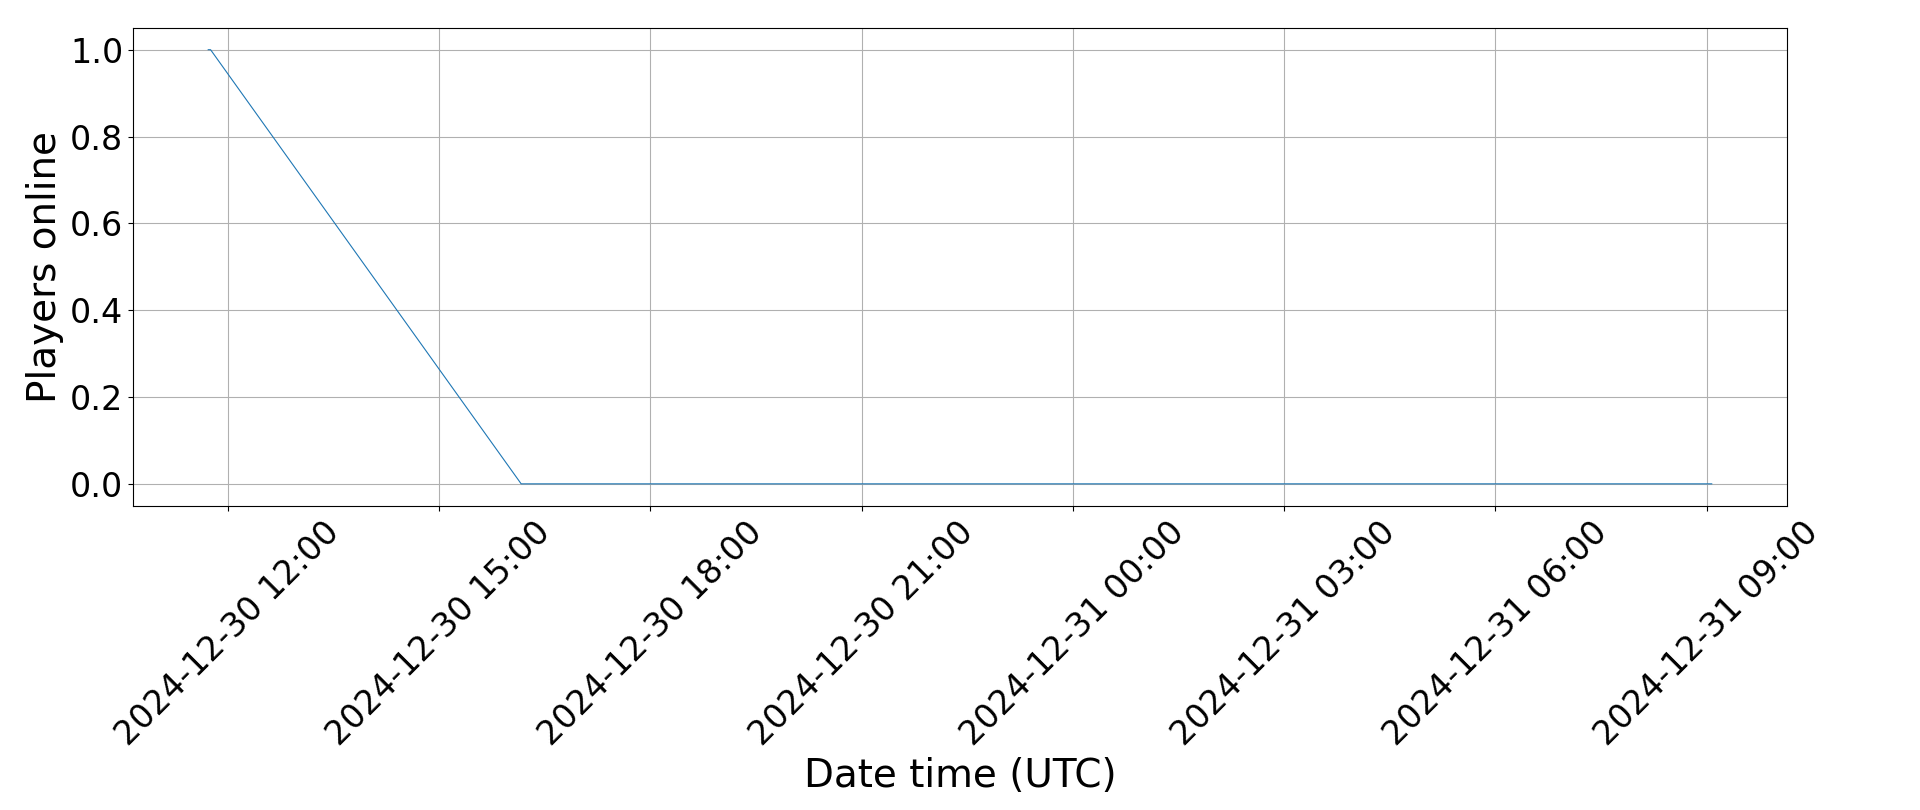
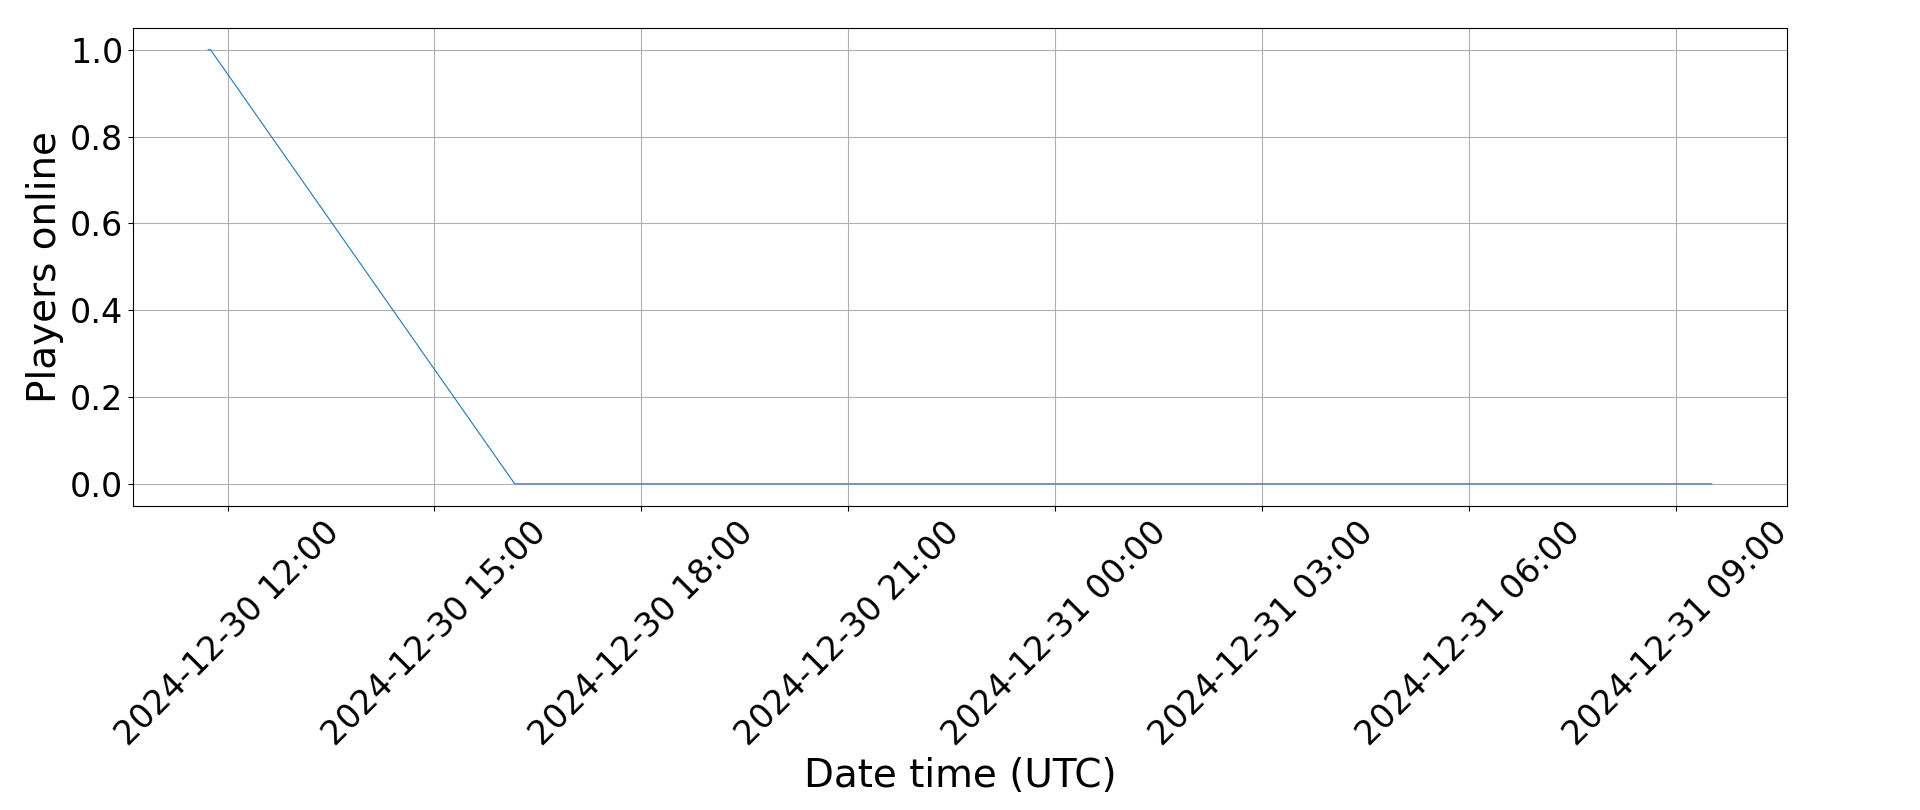
Rosti.cz works

diff --git a/server/job.py b/server/job.py
@@ -1,5 +1,5 @@
 import datetime
-from __main__ import scheduler, scoped_factory
+import context
 import service
 from datetime import timedelta
 
@@ -10,7 +10,7 @@ import constant
 from model import ModulePresence, ModuleInfo
 
 
-@scheduler.task('cron', minute=constant.NWN_CHECKER_URL_INTERVAL_CRON_PER_HOUR)
+@context.scheduler.task('cron', minute=constant.NWN_CHECKER_URL_INTERVAL_CRON_PER_HOUR)
 def update_module_presences():
     module_infos = repository.get_module_infos()
     for module_info in module_infos:
@@ -25,10 +25,10 @@ def update_module_presences():
 
         # Update Module info
 
-        session = scoped_factory()
+        session = context.scoped_factory()
 
         module_info.players = count
-        module_info.updated = datetime.datetime.utcnow()
+        module_info.updated = datetime.datetime.now(datetime.timezone.utc)
 
         repository.upsert_module_infos([module_info])
 
@@ -36,7 +36,7 @@ def update_module_presences():
 
         # Load latest Module presence
 
-        timestamp_min = datetime.datetime.utcnow() - timedelta(seconds=int(constant.NWN_CHECKER_URL_INTERVAL_UPDATE_DB_SECONDS))
+        timestamp_min = datetime.datetime.now(datetime.timezone.utc) - timedelta(seconds=int(constant.NWN_CHECKER_URL_INTERVAL_UPDATE_DB_SECONDS))
         recent_presences = repository.get_module_presences(module_info_id=module_info.id, timestamp_min=timestamp_min)
         if len(recent_presences) > 0:
             recent_presence = recent_presences[0]
@@ -53,7 +53,7 @@ def update_module_presences():
             is_db_update = True
             print(f"Presence for {module_info.name} will be updated because current players {count} is greater that previous {recent_presence.players}")
         else:
-            print(f"Presence for {module_info.name} will be not updated because current is {count} and before {(datetime.datetime.utcnow() - timestamp_min).total_seconds() / 60} minutes there was {recent_presence.players}")
+            print(f"Presence for {module_info.name} will be not updated because current is {count} and before {(datetime.datetime.now(datetime.timezone.utc) - timestamp_min).total_seconds() / 60} minutes there was {recent_presence.players}")
         if not is_db_update:
             session.commit()
             continue
@@ -62,11 +62,11 @@ def update_module_presences():
 
         if recent_presence:
             recent_presence.players = count
-            recent_presence.timestamp = datetime.datetime.utcnow()
+            recent_presence.timestamp = datetime.datetime.now(datetime.timezone.utc)
         else:
             recent_presence = ModulePresence(
                 module_info_id=module_info.id,
-                timestamp=datetime.datetime.utcnow(),
+                timestamp=datetime.datetime.now(datetime.timezone.utc),
                 players=count
             )
 
@@ -84,6 +84,6 @@ def update_module_presences():
             file.write(chart_bytes)
 
 
-@scheduler.task('interval', seconds=10)
+@context.scheduler.task('interval', seconds=10)
 def reload_properties():
     service.reload_properties()

diff --git a/server/app.py b/server/app.py
@@ -2,6 +2,7 @@
 import json
 import logging
 from http.client import HTTPException
+import os
 
 from flask_apscheduler import APScheduler
 from flask import Flask, send_from_directory, request, redirect, url_for
@@ -10,6 +11,7 @@ from sqlalchemy.orm import sessionmaker, scoped_session
 
 # Component imports
 
+import context
 import initdb
 import util
 from constant import STATIC_FILE_SUFFIXES, WEB_DIR, DATA_DIR
@@ -17,16 +19,17 @@ from util import CustomJSONEncoder
 
 # Init Flask
 
-app = Flask(__name__, )
-app.json_encoder = CustomJSONEncoder
-# app.config['JSON_SORT_KEYS'] = False
-# app.config['JSONIFY_PRETTYPRINT_REGULAR'] = False
+os.environ['TZ'] = 'Europe/Prague'
+context.app = Flask(__name__, )
+context.app.json_encoder = CustomJSONEncoder
+# context.app.config['JSON_SORT_KEYS'] = False
+# context.app.config['JSONIFY_PRETTYPRINT_REGULAR'] = False
 
 # Init SqlAclhemy
 
-engine = create_engine(f"sqlite:///{DATA_DIR}/sqlite.db")
-session_factory = sessionmaker(bind=engine)
-scoped_factory = scoped_session(session_factory)
+context.engine = create_engine(f"sqlite:///{DATA_DIR}/sqlite.db")
+context.session_factory = sessionmaker(bind=context.engine)
+context.scoped_factory = scoped_session(context.session_factory)
 
 import repository
 import rest
@@ -36,19 +39,19 @@ import service
 # Init Scheduler
 
 service.reload_properties()
-scheduler = APScheduler()
-scheduler.init_app(app)
-scheduler.start()
+context.scheduler = APScheduler()
+context.scheduler.init_app(context.app)
+context.scheduler.start()
 
 import job
 
 
-@app.route('/')
+@context.app.route('/')
 def get_index():
     return send_from_directory(WEB_DIR, 'index.html')
 
 
-@app.route('/<path:text>')
+@context.app.route('/<path:text>')
 def get_index_with(text: str):
     if text == '/':
         return send_from_directory(WEB_DIR, 'index.html')
@@ -61,12 +64,12 @@ def get_index_with(text: str):
         return send_from_directory(WEB_DIR, 'index.html')  # Should have 404 not found
 
 
-@app.teardown_request
+@context.app.teardown_request
 def teardown_request(exception):
     if '/api' not in request.path:
         return
     print('Teardown')
-    session = scoped_factory()
+    session = context.scoped_factory()
     if not exception:
         print('Commit')
         session.commit()
@@ -76,7 +79,7 @@ def teardown_request(exception):
     session.close()
 
 
-@app.errorhandler(Exception)
+@context.app.errorhandler(Exception)
 def handle_http_exception(e):
     response = {
         "error": e.name,
@@ -86,5 +89,8 @@ def handle_http_exception(e):
     return json.dumps(response), e.code
 
 
+application = context.app # gunicorn needs "application" variable
+
+
 if __name__ == '__main__':
-    app.run(debug=True, host='0.0.0.0', port=8080, use_reloader=False)
+    context.app.run(debug=True, host='0.0.0.0', port=8080, use_reloader=False)

diff --git a/server/repository.py b/server/repository.py
@@ -3,8 +3,8 @@ from typing import List
 from sqlalchemy import delete, select, update
 from sqlalchemy.orm import Session
 
+import context
 from model import ModulePresence
-from __main__ import scoped_factory
 
 from model import ModuleInfo, Property
 
@@ -13,7 +13,7 @@ from model import ModuleInfo, Property
 
 
 def get_module_infos(ids=None, name=None) -> List[ModuleInfo]:
-    session = scoped_factory()
+    session = context.scoped_factory()
     q = select(ModuleInfo)
     if name is not None:
         q = q.where(ModuleInfo.name.like(f'%{name}%'))
@@ -23,7 +23,7 @@ def get_module_infos(ids=None, name=None) -> List[ModuleInfo]:
 
 
 def upsert_module_infos(module_infos: List[ModuleInfo]):
-    session: Session = scoped_factory()
+    session: Session = context.scoped_factory()
     fresh_module_infos = []
     for module_info in module_infos:
         fresh_module_info = session.merge(module_info)
@@ -33,14 +33,14 @@ def upsert_module_infos(module_infos: List[ModuleInfo]):
 
 
 def delete_module_info(ids):
-    scoped_factory().query(ModuleInfo).where(ModuleInfo.id.in_(ids)).delete()
+    context.scoped_factory().query(ModuleInfo).where(ModuleInfo.id.in_(ids)).delete()
 
 
 # Module presence
 
 
 def get_module_presences(ids=None, module_info_id=None, timestamp_min=None) -> List[ModulePresence]:
-    session = scoped_factory()
+    session = context.scoped_factory()
     q = select(ModulePresence)
     if module_info_id is not None:
         q = q.where(ModulePresence.module_info_id == module_info_id)
@@ -53,7 +53,7 @@ def get_module_presences(ids=None, module_info_id=None, timestamp_min=None) -> L
 
 
 def upsert_module_presences(module_presences: List[ModulePresence]):
-    session: Session = scoped_factory()
+    session: Session = context.scoped_factory()
     fresh_module_presences = []
     for module_presence in module_presences:
         fresh_module_presence = session.merge(module_presence)
@@ -66,7 +66,7 @@ def upsert_module_presences(module_presences: List[ModulePresence]):
 
 
 def get_properties(keys=None) -> List[ModuleInfo]:
-    session = scoped_factory()
+    session = context.scoped_factory()
     q = select(Property)
     if keys:
         q = q.where(Property.key.in_(keys))
@@ -74,7 +74,7 @@ def get_properties(keys=None) -> List[ModuleInfo]:
 
 
 def upsert_properties(properties: List[Property]):
-    session: Session = scoped_factory()
+    session: Session = context.scoped_factory()
     for property in properties:
         session.merge(property)
     session.flush()

diff --git a/server/rest.py b/server/rest.py
@@ -1,5 +1,4 @@
-import dataclasses
-from __main__ import app
+import context
 from dataclasses import asdict
 
 import repository
@@ -11,7 +10,7 @@ import mapper
 # Module infos
 
 
-@app.get('/api/module-infos')
+@context.app.get('/api/module-infos')
 def get_module_infos():
     ids = request.args.getlist('ids[]')
     name = request.args.get('name')
@@ -19,7 +18,7 @@ def get_module_infos():
     return [asdict(result) for result in results]
 
 
-@app.post('/api/module-infos')
+@context.app.post('/api/module-infos')
 def upsert_module_infos():
     validator.validate_password(request)
     module_infos = mapper.to_module_infos(request.json)
@@ -27,7 +26,7 @@ def upsert_module_infos():
     return [asdict(result) for result in results]
 
 
-@app.delete('/api/module-infos')
+@context.app.delete('/api/module-infos')
 def delete_module_infos():
     validator.validate_password(request)
     ids = request.args.getlist('ids[]')
@@ -39,7 +38,7 @@ def delete_module_infos():
 # Module presence
 
 
-@app.get('/api/module-presences')
+@context.app.get('/api/module-presences')
 def get_module_presences():
     ids = request.args.getlist('ids[]')
     module_info_id = request.args.get('module_info_id')
@@ -58,14 +57,14 @@ def get_module_presences():
 # Property
 
 
-@app.get('/api/properties')
+@context.app.get('/api/properties')
 def get_properties():
     keys = request.args.getlist('keys[]')
     results = repository.get_properties(keys=keys)
     return [asdict(result) for result in results]
 
 
-@app.post('/api/properties')
+@context.app.post('/api/properties')
 def upsert_properties():
     validator.validate_password(request)
     properties = mapper.to_properties(request.json)

diff --git a/server/util.py b/server/util.py
@@ -1,12 +1,9 @@
-import datetime
 import io
 from datetime import date
 from json import JSONEncoder
 from typing import List
-from zoneinfo import ZoneInfo
-import hashlib
 
-import constant
+import matplotlib
 import matplotlib.dates as md
 import matplotlib.pyplot as plt
 
@@ -27,10 +24,12 @@ class CustomJSONEncoder(JSONEncoder):
 
 
 def plot_chart_to_bytes(module_info: ModuleInfo, module_presences: List[ModulePresence]):
+    matplotlib.use('Agg')  # Use non-GUI backend
+
     dates = [module_presence.timestamp for module_presence in module_presences]
     players_count = [module_presence.players for module_presence in module_presences]
 
-    fig = plt.figure(figsize=(19.2, 10.8*0.75))
+    plt.figure(figsize=(19.2, 10.8*0.75))
     # plt.suptitle(module_info.name, fontsize=36)
     plt.xlabel("Date time (UTC)", fontsize=28)
     plt.ylabel("Players online", fontsize=28)
